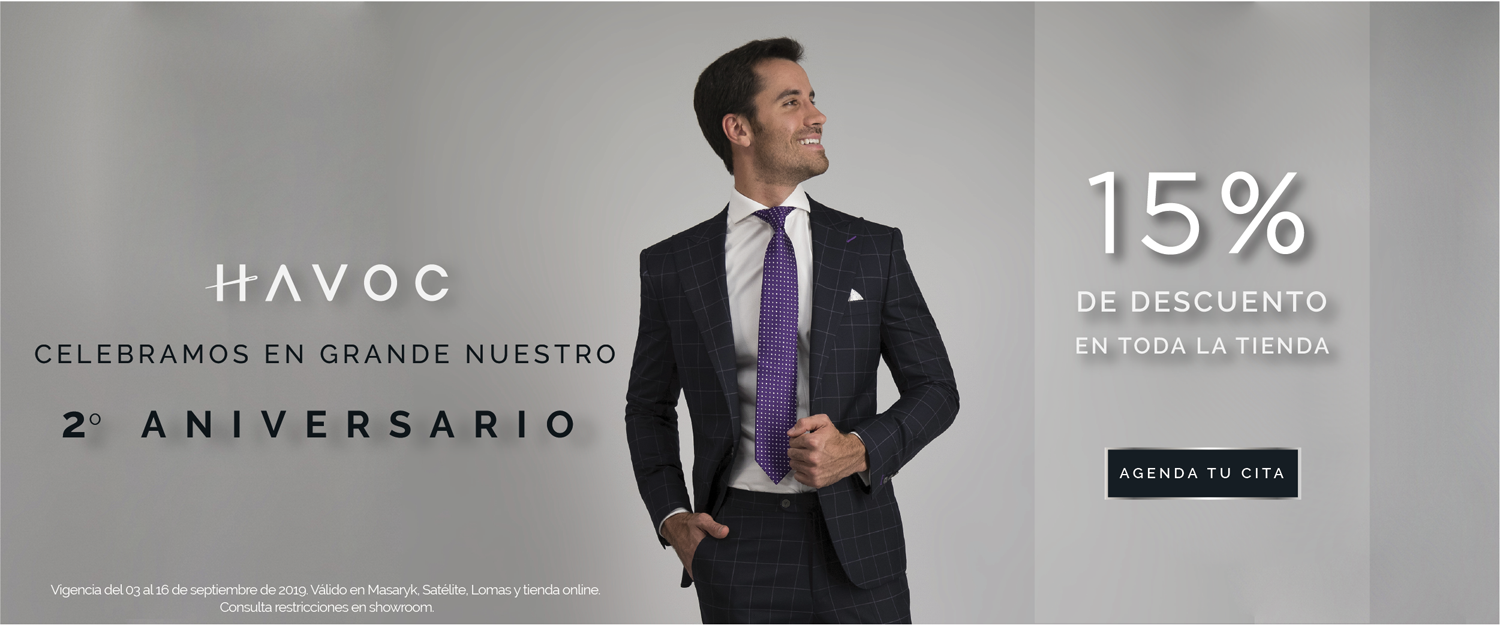
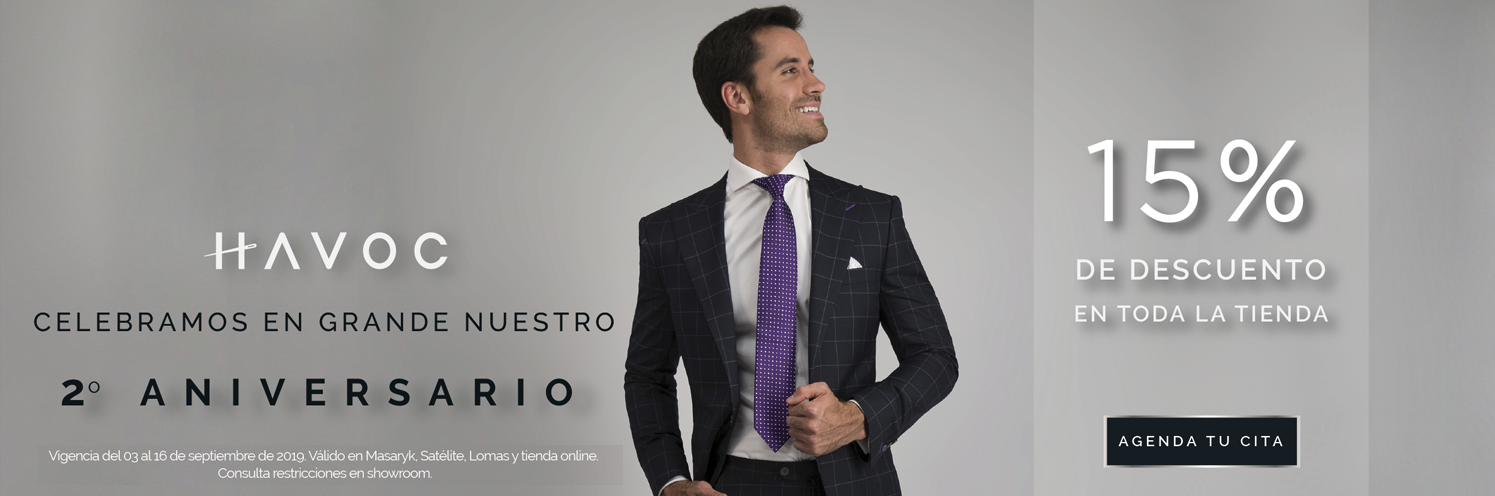
se agregaron flechas y se desminuyo la imagen de portada

diff --git a/AgendaCita.html b/AgendaCita.html
@@ -1,0 +1,145 @@
+<!DOCTYPE html>
+<html lang="es">
+    <head>
+        <meta charset="UTF-8">
+        <title>Agenda tu cita Havoc Showroom</title>
+        <!-- Estilos --> 
+        <link rel="stylesheet" href="./AgendaCita.css" type="text/css">
+        <!-- iconos --> 
+	<script defer src="./fontawesome-free-5.9.0-web/js/all.js"></script>
+    </head>
+    <body>
+        <!------- Full Navbar ---------> 
+	<nav class="full_navbar">
+        <div class="caja_agendar">
+            <span class="normal_agendar">¡DA </span><span class="bold_agendar">CLICK AQUÍ </span><span  class="normal_agendar">PARA AGENDAR </span><span class="bold_agendar">TU CITA !</span>
+        </div>
+        <div class="logo_bar">
+            <div class="search_bar">
+                <div class="search_box">
+                    <span class="search_logo"><i class="fas fa-search"></i></span>
+                    <div class="search_input"><input type="text" class="sin_borde" placeholder="BUSCAR"></div>
+                </div>                
+                <div class="social_buttons_container">
+                    <a target="_blank" href="https://www.facebook.com/HavocSuits/" class="social_button"><i class="fab fa-facebook-square"></i></a>
+                    <a target="_blank" href="https://www.instagram.com/havocsuits/" class="social_button"><i class="fab fa-instagram"></i></a>
+                    <a target="_blank" href="https://www.pinterest.com.mx/havocsuits" class="social_button"><i class="fab fa-pinterest"></i></a>
+                </div>
+            </div>
+            <div class="logo_container_bg">
+                <div class="logo_container_sm centrar" id="logo"><a href="https://havoc.mx/"><img src="./imagenes/LOGO_ALTA_SMALL.png" alt="Havoc" width="145px"></a></div>
+            </div>
+            <div class="caja_shop_items">
+                <div class="shop_items sin_focus">MI CUENTA</div>
+                <div class="shop_items sin_focus"><span class="h6 text-muted"><i class="far fa-heart"></i></span> Wishlist</div>
+                <div class="shop_item_wish sin_focus">CARRITO ( <span id="carrito">0</span> ) <span class="carrito_icon ml-1 h6"><i class="fas fa-luggage-cart"></i></span></div>
+            </div>
+        </div>
+        <div class="navegacion">
+            <div class="boton_nav sin_focus">TRAJES Y MAS +</div>
+            <div class="boton_nav sin_focus"><a class="link_nav" href="https://havoc.mx/collections/camisas-a-la-medida-para-hombre">CAMISAS</a></div>
+            <div class="boton_nav sin_focus"><a class="link_nav" href="https://havoc.mx/collections/ceremonia">BODA Y SMOKING</a></div>
+            <div class="boton_nav sin_focus"><a class="link_nav" href="https://havoc.mx/products/caja-con-certificado-de-regalo-havoc">CAJAS DE REGALO</a></div>
+            <div class="boton_nav sin_focus">CONÓCENOS +</div>
+            <div class="boton_nav sin_focus"><a class="link_nav" href="https://havoc.mx/pages/showrooms">SHOWROOMS</a></div>
+            <div class="botones_grises_nav">
+                    <div class="boton_nav_gris sin_focus"><a class="link_nav_white" href="./AgendaCita.html">AGENDA TU CITA</a></div>    
+                    <div class="boton_nav_gris sin_focus"><a class="link_nav_white" href="https://havoc.mx/collections/otono-invierno-2019">NUEVA COLECCIÓN OTOÑO</a></div>    
+            </div>
+        </div>
+    </nav>
+    <!------- Imagen Portada ---------> 
+    <div class="cover_img"><img src="./imagenes/otoño_collection.PNG" alt="Havoc" width="100%"></div>
+    <a class="link_nav" href="#logo"><div class="down_button sin_focus"><i class="fas fa-angle-double-down"></i></div></a>
+    <!------- Agenda Cita ---------> 
+    <div class="h2 agenda_titulo">Agenda tu cita</div>
+    <div class="showroom_container">
+        <div class="showroom_selecciona">Selecciona tu showroom más cercano</div>
+        <div class="showroom_caja">Av. Explanada 730, Lomas de Chapultepec</div>
+        <div class="showroom_caja">Av. Pdte. Masaryk 513, Polanco</div>
+        <div class="showroom_caja">Circuito Cirujanos 21, Satélite</div>
+        <div class="showroom_caja">Liverpool Insurgentes</div>
+        <div class="showroom_caja">Liverpool Perisur</div>
+        <div class="showroom_caja">Liverpool Santa Fe</div>
+    </div>
+    <!------- Como funciona ---------> 
+    <div class="como_funciona_container">
+        <div class="como">¿Como funciona?</div>
+    
+        
+            <div class="row">
+                <div class=" col-md-3 como_agenda_box">
+                    <div class="como_img_container"><img src="./imagenes/agenda1.svg"  alt="Havoc" width="105px" /></div>
+                    <div class="como_text_container"> <span class="font-weight-bold">Agenda</span> tu cita<br>&nbsp</div>
+                </div>
+                <div class="col-md-3 como_agenda_box">
+                    <div class="como_img_container"><img src="./imagenes/agenda2.svg"  alt="Havoc" width="105px" /></div>
+                    <div class="como_text_container"> <span class="font-weight-bold">Mídete</span> en nuestro showroom</div>
+                </div>
+                <div class="col-md-3 como_agenda_box">
+                    <div class="como_img_container"><img src="./imagenes/agenda3.svg"  alt="Havoc" width="105px" /></div>
+                    <div class="como_text_container"> <span class="font-weight-bold">Recibe</span> en la puerta de tu casa</div>
+                </div>
+            </div>
+
+            <table class="centrar" width="70%">
+                <tr align="center">
+                    <td>
+                        <div class="dot"><i class="far fa-arrow-alt-circle-right"></i></div>
+                    </td>
+                    <td>
+                        <img src="./imagenes/line.PNG" alt="Havoc" width="100%">
+                    </td>
+                    <td>
+                        <div class="dot"><i class="far fa-arrow-alt-circle-right"></i></div>
+                    </td>
+                    <td>
+                        <div class="line"><img src="./imagenes/line.PNG" alt="Havoc" width="100%"></div>
+                    </td>
+                    <td>
+                        <div class="final_dot"><i class="far fa-dot-circle"></i></div>
+                    </td>
+                </tr>
+            </table>
+    </div>
+    
+    <!----------- bottom bar ---------> 
+    <div class="bottom_bar1 ">
+        <div class="row bottom_bar1">
+            <div class="col-md-3">
+            <div class="button_bottom_bar1">
+                <div class="bottom_bar1_icon"><i class="fas fa-truck"></i></div>
+                <div class="bottom_bar1_text">ENVÍO GRATIS<br>&nbsp</div>
+            </div>
+            </div>
+            <div class="col-md-3">
+            <div class="button_bottom_bar1">
+                <div class="bottom_bar1_icon"><i class="fas fa-map-marker-alt"></i></div>
+                <div class="bottom_bar1_text">CERCA DE TÍ<br>&nbsp</div>
+            </div>
+            </div>
+            <div class="col-md-3">
+                <a class="link_nav" href="https://havoc.mx/products/caja-de-regalo">
+                <div class="button_bottom_bar1">
+                    <div class="bottom_bar1_icon"><i class="fas fa-gift"></i></div>
+                    <div class="bottom_bar1_text">CERTIFICADOS DE REGALO</div>
+                </div>
+                </a>
+            </div>
+            <div class="col-md-3">
+                <a class="link_nav" href="https://havoc.mx/pages/contacto">
+                <div class="button_bottom_bar1">
+                    <div class="bottom_bar1_icon"><i class="fas fa-tag"></i></div>
+                    <div class="bottom_bar1_text">DESCUENTOS A EMPRESAS</div>
+                </div>
+                </a>
+            </div>
+        </div>
+    </div>
+    <!------- Librerias y Js ---------> 
+    <link rel="stylesheet" href="./js/bootstrap-4.3.1-dist/css/bootstrap.min.css">
+	<script src="./js/jquery-3.3.1.slim.min para bootstrap.js" ></script>
+	<script src="./js/popper.min para bootstrap.js" crossorigin="anonymous"></script>
+	<script src="./js/bootstrap-4.3.1-dist/js/bootstrap.min.js"></script>
+    </body>
+</html>

diff --git a/AgendaCita.css b/AgendaCita.css
@@ -229,6 +229,13 @@ text-decoration:none;
 {
     background: #eeeded;
 }
+.cover_img
+{
+    width: 93%;
+    background: greenyellow;
+    margin-left: auto;
+    margin-right: auto;
+}
 /*--------Agenda Cita-------*/
 .agenda_titulo
 {
